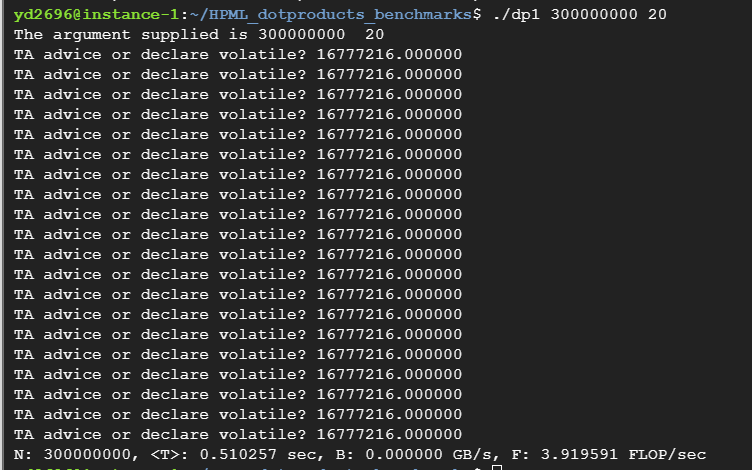
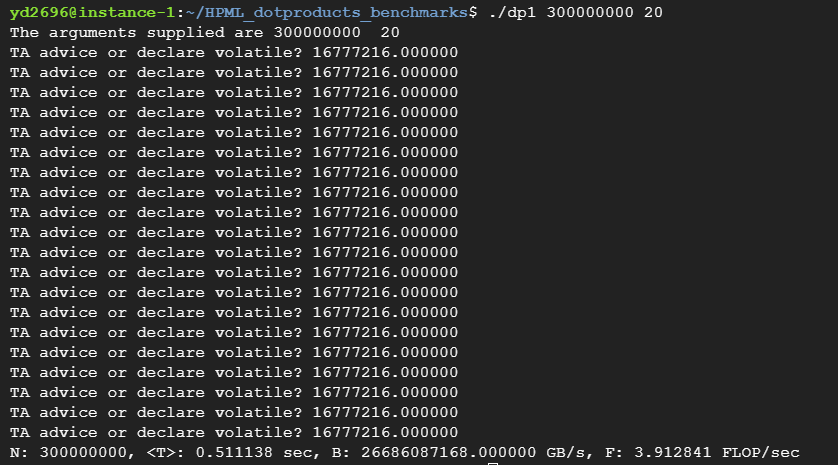
updates to dp2, dp3

Changed region(s): [[0.0, 0.0, 0.9481, 1.0]]

diff --git a/dp2.c b/dp2.c
@@ -66,7 +66,7 @@ int main( int argc, char *argv[] )
     */
     exec_time /= half;
     exec_time *=0.000001; //for microseconds 
-    float b = 8.0*(100000000)/exec_time;//sizeof(float)*(measurements*vec_size);
+    float b = 8.0*(measurements*vec_size)/exec_time;//sizeof(float)*(measurements*vec_size);
     float F = 2.0/exec_time;
     printf("N: %d, <T>: %f sec, B: %f GB/s, F: %f FLOP/sec \n", vec_size,exec_time,b,F);
     return 0;

diff --git a/dp3.c b/dp3.c
@@ -59,7 +59,7 @@ int main( int argc, char *argv[] )
     */
     exec_time /= half;
     exec_time *=0.000001; //for microseconds 
-    float b = 8.0*(100000000)/exec_time;//sizeof(float)*(measurements*vec_size);
+    float b = 8.0*(measurements*vec_size)/exec_time;//sizeof(float)*(measurements*vec_size);
     float F = 2.0/exec_time;
     printf("N: %d, <T>: %f sec, B: %f GB/s, F: %f FLOP/sec \n", vec_size,exec_time,b,F);
     return 0;
